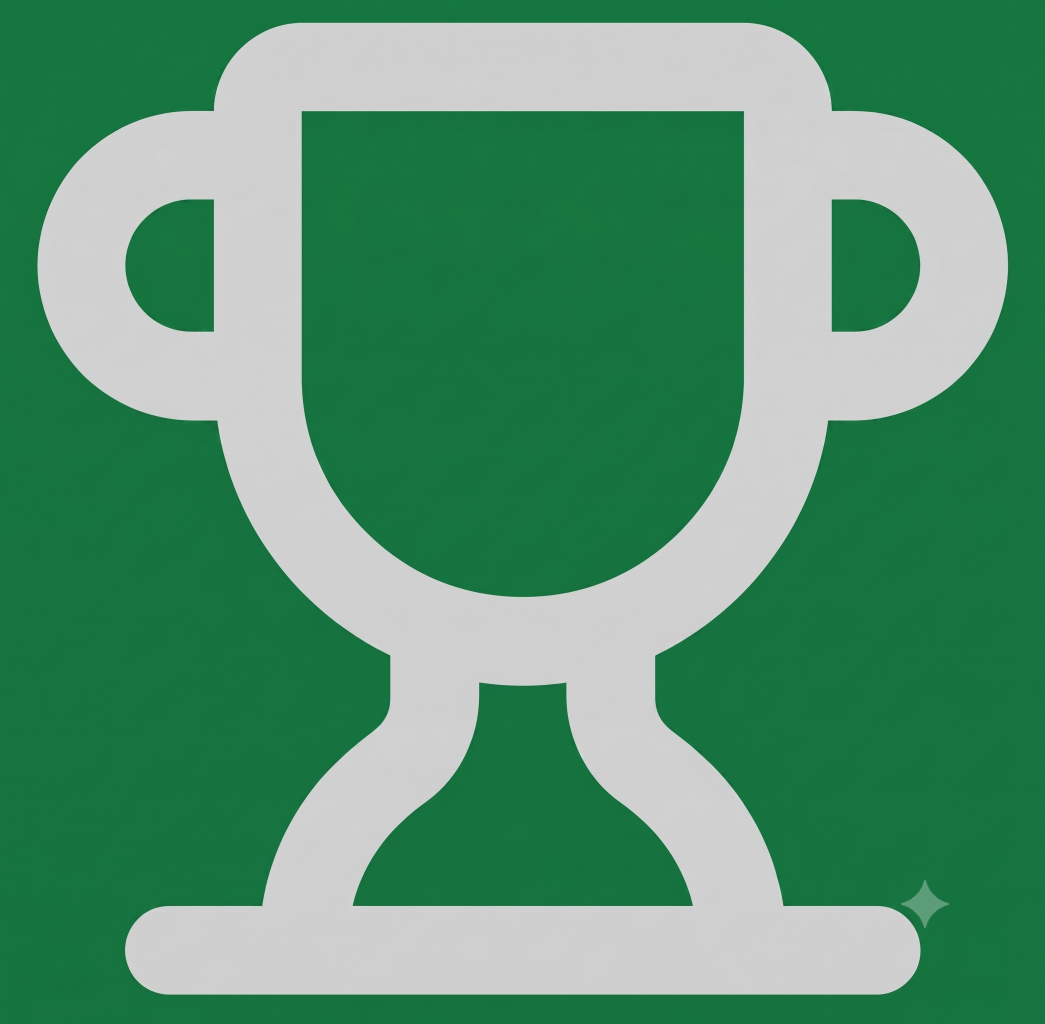
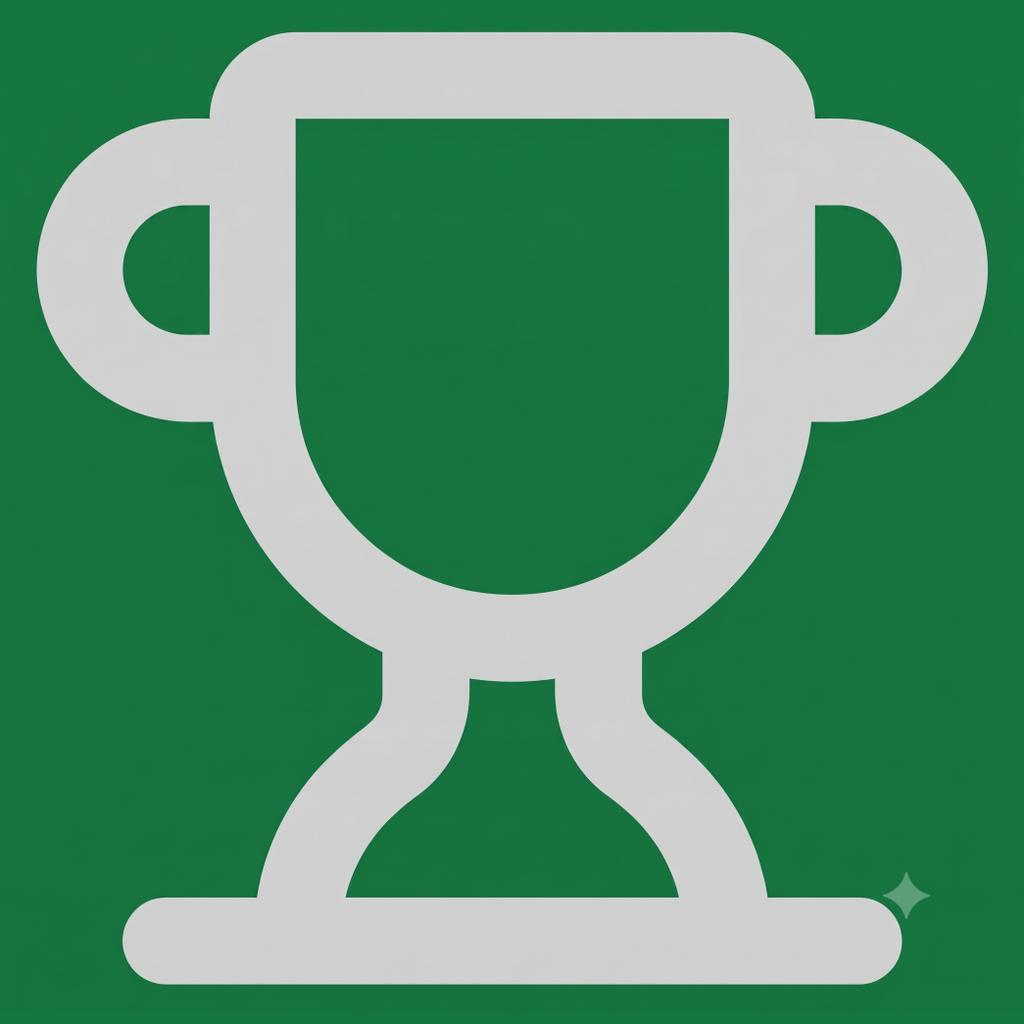
add necessary dependencies

diff --git a/app/index.tsx b/app/index.tsx
@@ -6,12 +6,3 @@ export default function Index() {
   const { token } = useAuthStore();
   return <Redirect href={token ? '/(app)/(tabs)/home' : '/welcome'} />;
 }
-
-/*return (
-  <View className="flex-1 items-center justify-center bg-white">
-    <Text className="text-2xl font-bold text-gray-800">Tourney FC</Text>
-    <Text className="mt-2 text-base text-primary ">
-      BIENVENIDOS A TOURNEYFC BROU
-    </Text>
-  </View>
-);*/

diff --git a/app/welcome.tsx b/app/welcome.tsx
@@ -22,7 +22,7 @@ export default function WelcomeScreen() {
         {pendingInviteCode ? (
           <View className="bg-primary-light border border-primary rounded-2xl px-4 py-3 mt-6">
             <Text className="text-primary font-sans-medium text-sm text-center">
-              Te invitaron a un equipo. Inicia sesión o regístrate para unirte.
+              Te invitaron a un equipo. Inicia sesión o regístrate para unirte a tu equipo.
             </Text>
           </View>
         ) : null}